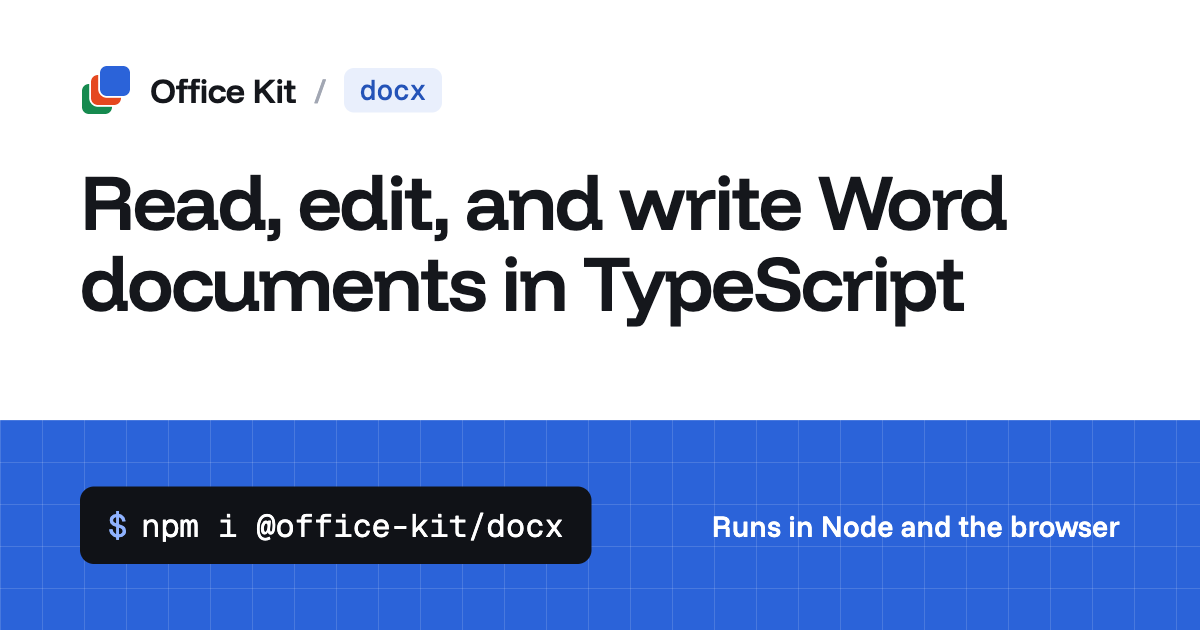
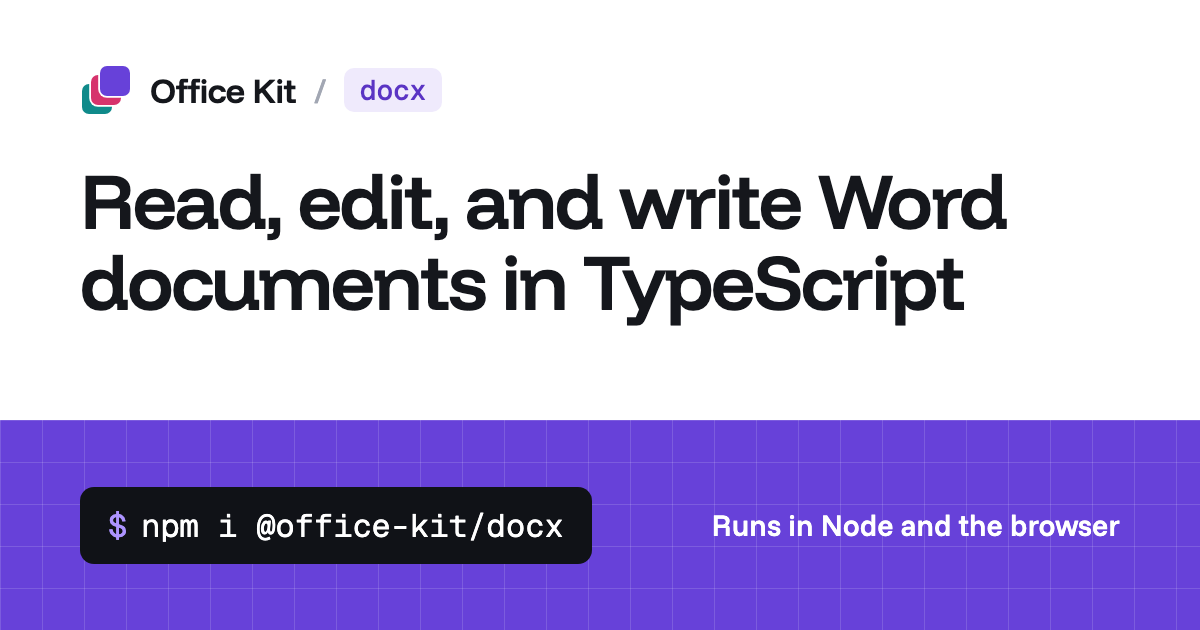
feat: give pptx, xlsx and docx their own brand colors (#2)
The product accents were PowerPoint orange, Excel green and Word blue, so the
family read as Microsoft's own app palette. pptx is now rose (#d6336c), xlsx
teal (#0f8a8a) and docx violet (#6741d9); favicons, touch icons and social
cards are regenerated from brand/render.html.

Claude-Session: https://claude.ai/code/session_01LchrLbGcHU264nzZo63ZTP

diff --git a/src/routes/+page.svelte b/src/routes/+page.svelte
@@ -57,12 +57,12 @@
             <svg viewBox="0 0 320 200" role="img" aria-label="A miniature {p.app} file">
               {#if p.id === 'pptx'}
                 <rect x="16" y="19" width="288" height="162" rx="3" fill="#fff" />
-                <rect x="36" y="38" width="5" height="26" fill="#e5481f" />
+                <rect x="36" y="38" width="5" height="26" fill="#d6336c" />
                 <rect x="50" y="40" width="150" height="10" rx="2" fill="#15171c" />
                 <rect x="50" y="56" width="88" height="6" rx="2" fill="#c9cdd6" />
                 <path d="M40 160.5h240" stroke="#c9cdd6" />
                 {#each [44, 62, 80, 98] as h, i (i)}
-                  <rect x={58 + i * 58} y={160 - h} width="22" height={h} fill="#e5481f" />
+                  <rect x={58 + i * 58} y={160 - h} width="22" height={h} fill="#d6336c" />
                   <rect x={82 + i * 58} y={160 - h * 0.55} width="22" height={h * 0.55} fill="#c9cdd6" />
                 {/each}
               {:else if p.id === 'xlsx'}
@@ -79,19 +79,19 @@
                   <rect x="56" y={61 + r * 18} width={[40, 32, 46, 28, 38][r]} height="6" rx="2" fill="#15171c" />
                   <rect x={[150, 140, 146, 154, 142][r]} y={61 + r * 18} width={[18, 28, 22, 14, 26][r]} height="6" rx="2" fill="#9aa0ad" />
                 {/each}
-                <rect x="56" y="43" width="34" height="6" rx="2" fill="#168a4f" />
-                <rect x="134" y="43" width="34" height="6" rx="2" fill="#168a4f" />
-                <rect x="176.5" y="91.5" width="64" height="18" fill="none" stroke="#168a4f" stroke-width="2" />
-                <rect x="237" y="106" width="6" height="6" fill="#168a4f" stroke="#fff" />
+                <rect x="56" y="43" width="34" height="6" rx="2" fill="#0f8a8a" />
+                <rect x="134" y="43" width="34" height="6" rx="2" fill="#0f8a8a" />
+                <rect x="176.5" y="91.5" width="64" height="18" fill="none" stroke="#0f8a8a" stroke-width="2" />
+                <rect x="237" y="106" width="6" height="6" fill="#0f8a8a" stroke="#fff" />
               {:else}
                 <rect x="94" y="12" width="132" height="176" rx="3" fill="#fff" />
                 <rect x="112" y="32" width="70" height="9" rx="2" fill="#15171c" />
-                <rect x="112" y="47" width="28" height="3" rx="1.5" fill="#2b63d9" />
+                <rect x="112" y="47" width="28" height="3" rx="1.5" fill="#6741d9" />
                 {#each [62, 71, 80, 89] as y, i (y)}
                   <rect x="112" y={y} width={[96, 92, 96, 60][i]} height="4" rx="2" fill="#c9cdd6" />
                 {/each}
                 {#each [106, 116, 126] as y, i (y)}
-                  <circle cx="115" cy={y + 2} r="2" fill="#2b63d9" />
+                  <circle cx="115" cy={y + 2} r="2" fill="#6741d9" />
                   <rect x="122" y={y} width={[70, 82, 56][i]} height="4" rx="2" fill="#c9cdd6" />
                 {/each}
                 <rect x="112.5" y="142.5" width="96" height="30" fill="none" stroke="#c9cdd6" />

diff --git a/packages/site-kit/src/site.css b/packages/site-kit/src/site.css
@@ -52,23 +52,23 @@
 }
 
 [data-product='pptx'] {
-  --accent: #e5481f;
-  --accent-ink: #bf3610;
-  --accent-wash: #fdeee8;
+  --accent: #d6336c;
+  --accent-ink: #b4235a;
+  --accent-wash: #fdebf1;
   --on-accent: #ffffff;
 }
 
 [data-product='xlsx'] {
-  --accent: #168a4f;
-  --accent-ink: #11703f;
-  --accent-wash: #e6f4ec;
+  --accent: #0f8a8a;
+  --accent-ink: #0b6e6e;
+  --accent-wash: #e4f4f4;
   --on-accent: #ffffff;
 }
 
 [data-product='docx'] {
-  --accent: #2b63d9;
-  --accent-ink: #2453b8;
-  --accent-wash: #e9effc;
+  --accent: #6741d9;
+  --accent-ink: #5a34c4;
+  --accent-wash: #efeafc;
   --on-accent: #ffffff;
 }
 
@@ -96,25 +96,25 @@
 
 :root[data-theme='dark'][data-product='pptx'],
 :root[data-theme='dark'] [data-product='pptx'] {
-  --accent: #e5481f;
-  --accent-ink: #ff7a52;
-  --accent-wash: #2a1710;
+  --accent: #d6336c;
+  --accent-ink: #ff7aa8;
+  --accent-wash: #2c1420;
   --on-accent: #ffffff;
 }
 
 :root[data-theme='dark'][data-product='xlsx'],
 :root[data-theme='dark'] [data-product='xlsx'] {
-  --accent: #168a4f;
-  --accent-ink: #4cc98a;
-  --accent-wash: #0f241a;
+  --accent: #0f8a8a;
+  --accent-ink: #4fd1cb;
+  --accent-wash: #0d2424;
   --on-accent: #ffffff;
 }
 
 :root[data-theme='dark'][data-product='docx'],
 :root[data-theme='dark'] [data-product='docx'] {
-  --accent: #2b63d9;
-  --accent-ink: #7da6ff;
-  --accent-wash: #121c33;
+  --accent: #6741d9;
+  --accent-ink: #ad94ff;
+  --accent-wash: #1c1636;
   --on-accent: #ffffff;
 }
 
@@ -139,25 +139,25 @@
 
   :root:not([data-theme='light'])[data-product='pptx'],
   :root:not([data-theme='light']) [data-product='pptx'] {
-    --accent: #e5481f;
-    --accent-ink: #ff7a52;
-    --accent-wash: #2a1710;
+    --accent: #d6336c;
+    --accent-ink: #ff7aa8;
+    --accent-wash: #2c1420;
     --on-accent: #ffffff;
   }
 
   :root:not([data-theme='light'])[data-product='xlsx'],
   :root:not([data-theme='light']) [data-product='xlsx'] {
-    --accent: #168a4f;
-    --accent-ink: #4cc98a;
-    --accent-wash: #0f241a;
+    --accent: #0f8a8a;
+    --accent-ink: #4fd1cb;
+    --accent-wash: #0d2424;
     --on-accent: #ffffff;
   }
 
   :root:not([data-theme='light'])[data-product='docx'],
   :root:not([data-theme='light']) [data-product='docx'] {
-    --accent: #2b63d9;
-    --accent-ink: #7da6ff;
-    --accent-wash: #121c33;
+    --accent: #6741d9;
+    --accent-ink: #ad94ff;
+    --accent-wash: #1c1636;
     --on-accent: #ffffff;
   }
 }

diff --git a/brand/render.html b/brand/render.html
@@ -151,24 +151,24 @@
     <script>
       const PRODUCTS = {
         pptx: {
-          accent: '#e5481f',
-          ink: '#bf3610',
-          wash: '#fdeee8',
-          prompt: '#ff8a5c',
+          accent: '#d6336c',
+          ink: '#b4235a',
+          wash: '#fdebf1',
+          prompt: '#ff7aa8',
           headline: 'Read, edit, and write PowerPoint files in TypeScript',
         },
         xlsx: {
-          accent: '#168a4f',
-          ink: '#11703f',
-          wash: '#e6f4ec',
-          prompt: '#5fd39a',
+          accent: '#0f8a8a',
+          ink: '#0b6e6e',
+          wash: '#e4f4f4',
+          prompt: '#4fd1cb',
           headline: 'Read, edit, and write Excel files in TypeScript',
         },
         docx: {
-          accent: '#2b63d9',
-          ink: '#2453b8',
-          wash: '#e9effc',
-          prompt: '#8fb2ff',
+          accent: '#6741d9',
+          ink: '#5a34c4',
+          wash: '#efeafc',
+          prompt: '#ad94ff',
           headline: 'Read, edit, and write Word documents in TypeScript',
         },
       };

diff --git a/packages/site-kit/src/KitMark.svelte b/packages/site-kit/src/KitMark.svelte
@@ -10,9 +10,9 @@
   const { front = 'pptx', size = 26 }: Props = $props();
 
   const FILL: Record<ProductId, string> = {
-    pptx: '#e5481f',
-    xlsx: '#168a4f',
-    docx: '#2b63d9',
+    pptx: '#d6336c',
+    xlsx: '#0f8a8a',
+    docx: '#6741d9',
   };
 
   // Back-to-front paint order, ending on the product this site documents.
